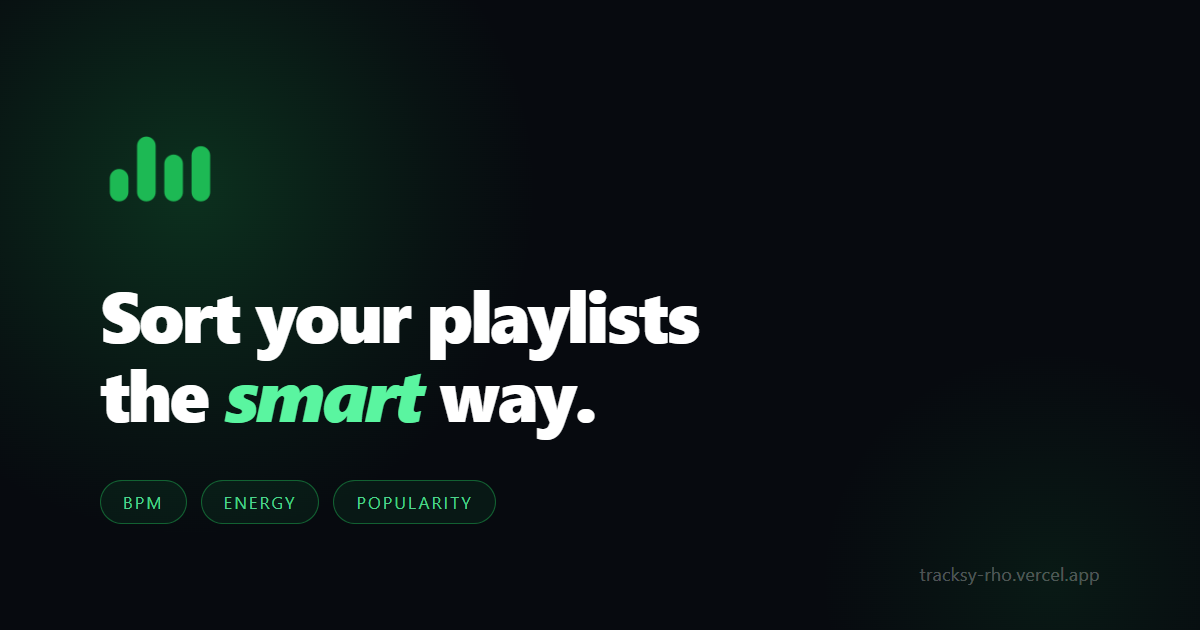
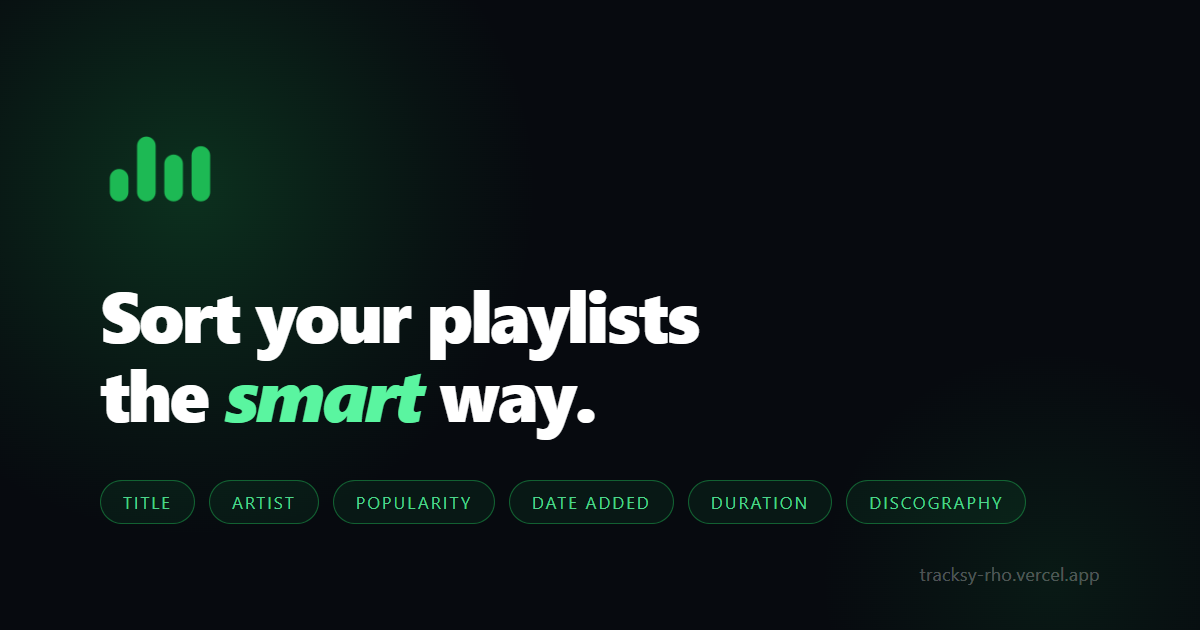
fix: align sort marketing with shipped options (#133)

diff --git a/index.html b/index.html
@@ -6,15 +6,15 @@
     <script src="/theme-init.js"></script>
     <link rel="icon" type="image/png" href="/tracksy-icon-green.png" />
     <title>Tracksy • Spotify Playlist Sorter</title>
-    <meta name="description" content="Sort your Spotify playlists by BPM, energy, popularity, and more." />
+    <meta name="description" content="Sort your Spotify playlists by title, artist, popularity, date added, duration, or discography." />
     <meta property="og:type" content="website" />
     <meta property="og:url" content="https://tracksy-rho.vercel.app/" />
     <meta property="og:title" content="Tracksy — Sort Spotify playlists the smart way" />
-    <meta property="og:description" content="Connect Spotify and reorder any playlist by BPM, energy, popularity, or mood — then push it back in one click." />
+    <meta property="og:description" content="Connect Spotify and reorder your playlists by title, artist, popularity, date added, duration, or discography." />
     <meta property="og:image" content="https://tracksy-rho.vercel.app/tracksy-og.png" />
     <meta name="twitter:card" content="summary_large_image" />
     <meta name="twitter:title" content="Tracksy — Sort Spotify playlists the smart way" />
-    <meta name="twitter:description" content="Connect Spotify and reorder any playlist by BPM, energy, popularity, or mood." />
+    <meta name="twitter:description" content="Connect Spotify and reorder your playlists by title, artist, popularity, date added, duration, or discography." />
     <meta name="twitter:image" content="https://tracksy-rho.vercel.app/tracksy-og.png" />
     <link rel="preconnect" href="https://fonts.googleapis.com" />
     <link rel="preconnect" href="https://fonts.gstatic.com" crossorigin />

diff --git a/src/pages/Home.tsx b/src/pages/Home.tsx
@@ -19,7 +19,7 @@ interface Feature {
 const FEATURES: Feature[] = [
   {
     label: 'Playlist Sorter',
-    sub: 'BPM · energy · mood',
+    sub: 'Title · artist · popularity · date added · duration · discography',
     tag: 'Live',
     accent: '#1db954',
     icon: (
@@ -166,7 +166,7 @@ function Home() {
           color: 'var(--text-2)', lineHeight: 1.6,
           maxWidth: 560, marginBottom: 44,
         }}>
-          Connect Spotify and reorder any playlist by BPM, energy, popularity, or mood — then push it back in one click.
+          Connect Spotify and reorder your playlists by title, artist, popularity, date added, duration, or discography.
         </p>
 
         {/* CTA row */}

diff --git a/src/components/dashboard/LibraryPanel.tsx b/src/components/dashboard/LibraryPanel.tsx
@@ -30,7 +30,7 @@ function LibraryPanel({ playlists, isLoading, isFetching, isError, onRefresh, on
             </span>
           </h2>
           <p style={{ fontSize: 12.5, color: 'var(--text-3)', lineHeight: 1.5 }}>
-            Pick a playlist to sort by BPM, energy, popularity, and more
+            Pick a playlist to sort by title, artist, popularity, date added, duration, or discography
           </p>
         </div>
         <button

diff --git a/IMPROVEMENTS.md b/IMPROVEMENTS.md
@@ -231,12 +231,14 @@ validated.
 
 ### SEO & web fundamentals
 
-#### [ ] E1 — Align marketing and social metadata with shipped sort options
+#### [x] E1 — Align marketing and social metadata with shipped sort options
 
 - **Severity:** Medium · **Effort:** S
 - **Location:** `index.html:9-17`; `src/pages/Home.tsx:22,169`; `src/components/dashboard/LibraryPanel.tsx:31`; `scripts/generate-og.mjs`
 - **Problem:** Page and social copy and the OG image claim BPM, energy, or mood sorting, which is not implemented. Current sort options are title, artist, popularity, date added, duration, and discography.
 - **Suggested fix:** Update copy to accurately describe the app and regenerate `public/tracksy-og.png`.
+- **Change:** Updated page, social, landing-page, and dashboard library copy to list the shipped sort options; changed the OG generator pills and regenerated the image.
+- **Verification:** `node scripts/generate-og.mjs`, `npm run validate` (119 tests; two pre-existing ESLint warnings), and `npm run build` passed.
 
 ### Infrastructure & DevOps
 
